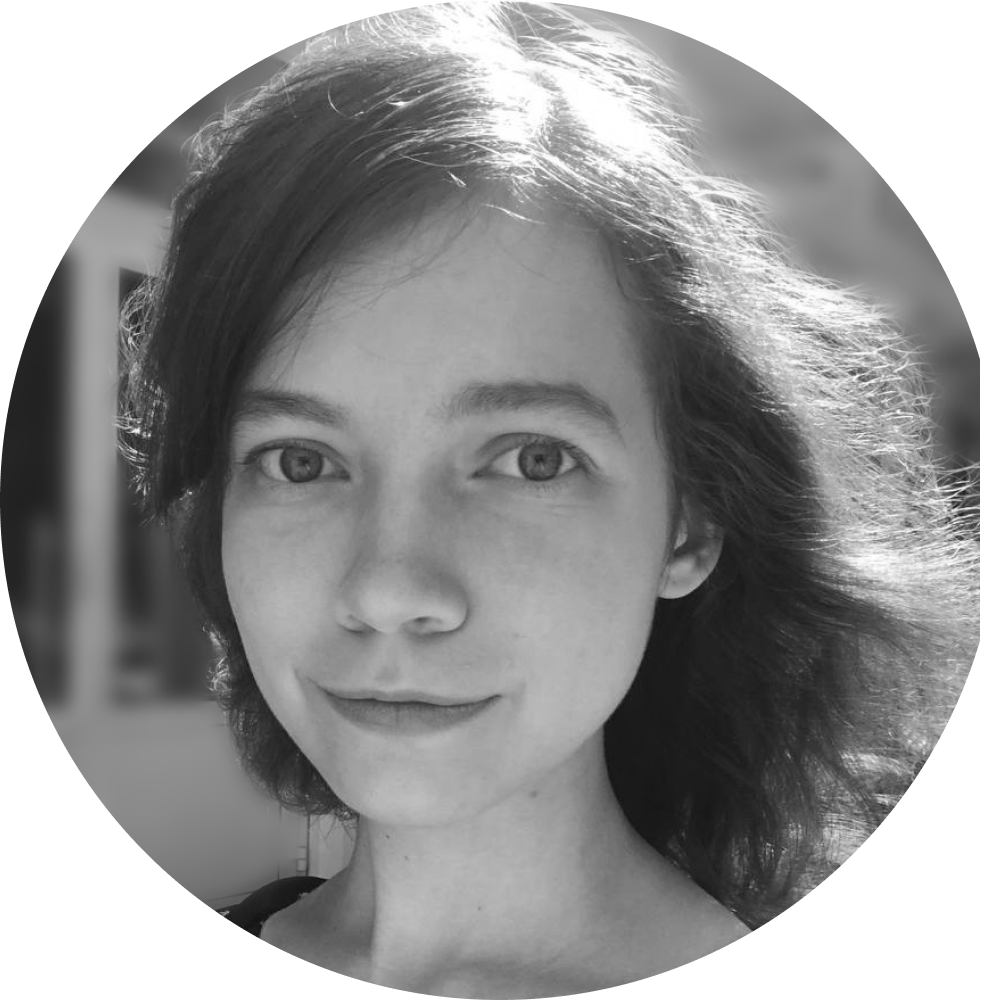
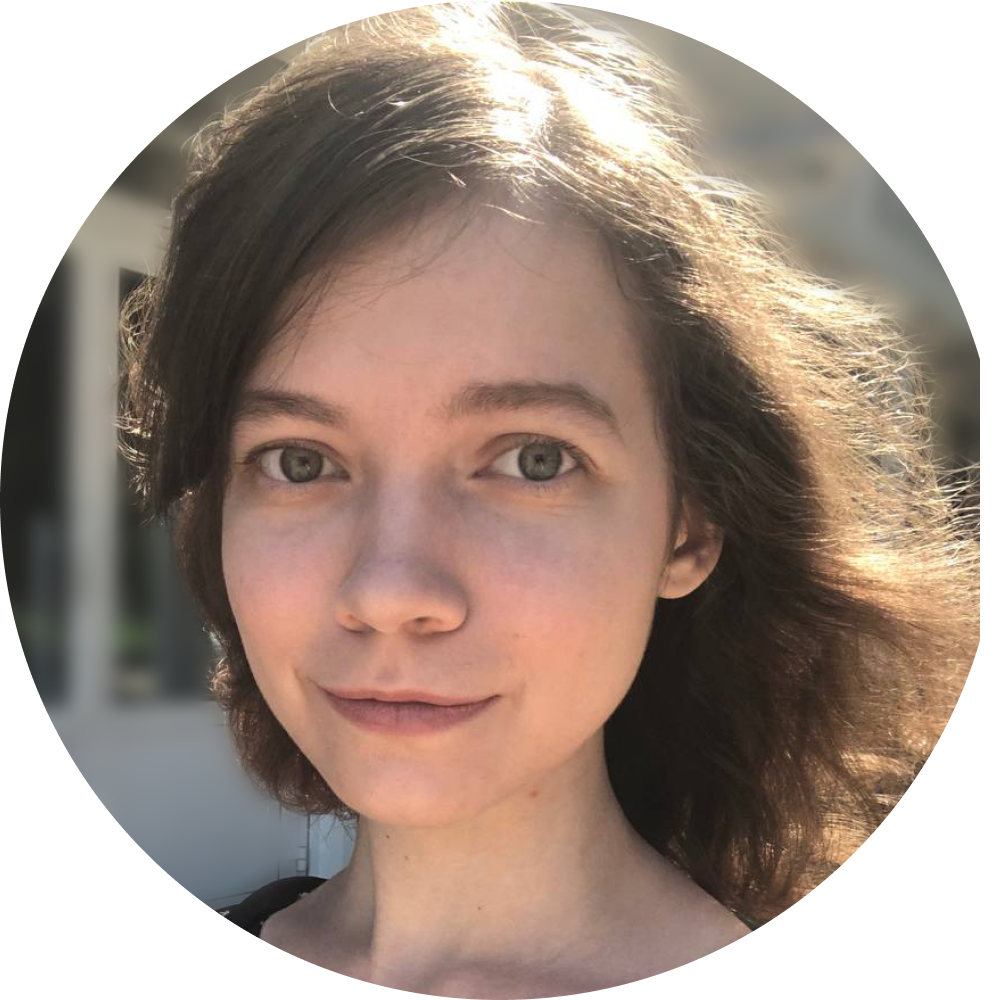
Добавлено окрашивание картинок команды при наведении мыши

diff --git a/src/components/AboutPage/We/MemberCard.tsx b/src/components/AboutPage/We/MemberCard.tsx
@@ -6,6 +6,12 @@ import Text from '@/components/Common/Text';
 
 const StyledCard = styled.div`
   /* display: grid; */
+  -webkit-user-drag: none;
+  user-select: none;
+  -moz-user-select: none;
+  -webkit-user-select: none;
+  -ms-user-select: none;
+
   display: flex;
   flex-direction: column;
   justify-items: flex-start;
@@ -47,9 +53,10 @@ const StyledCard = styled.div`
 `;
 
 const StyledPhoto = styled.img`
-  pointer-events: none;
-  -moz-user-select: none;
-  -webkit-user-select: none;
+  filter: grayscale(100%);
+  -webkit-filter: grayscale(100%);
+  -moz-filter: grayscale(100%);
+
   user-select: none;
   --size: 250px;
   width: var(--size);
@@ -60,6 +67,13 @@ const StyledPhoto = styled.img`
   object-fit: cover;
 
   margin-bottom: 25px;
+  transition: all 0.5s ease;
+
+  /* :hover {
+    -webkit-filter: grayscale(0%);
+    -moz-filter: grayscale(0%);
+    filter: grayscale(0%);
+  } */
 
   @media ${breakPoints.xl} {
     /* --size: 280px; */

diff --git a/src/components/AboutPage/We/Members.tsx b/src/components/AboutPage/We/Members.tsx
@@ -14,6 +14,14 @@ const StyledSlider = styled(Slider)`
     transition-timing-function: linear;
   }
 
+  img {
+    pointer-events: none;
+  }
+
+  div:hover > img {
+    filter: grayscale(0%);
+  }
+
   @media ${breakPoints.lg} {
     --swiper-pagination-bullet-horizontal-gap: 30px;
     --size: 4px;
